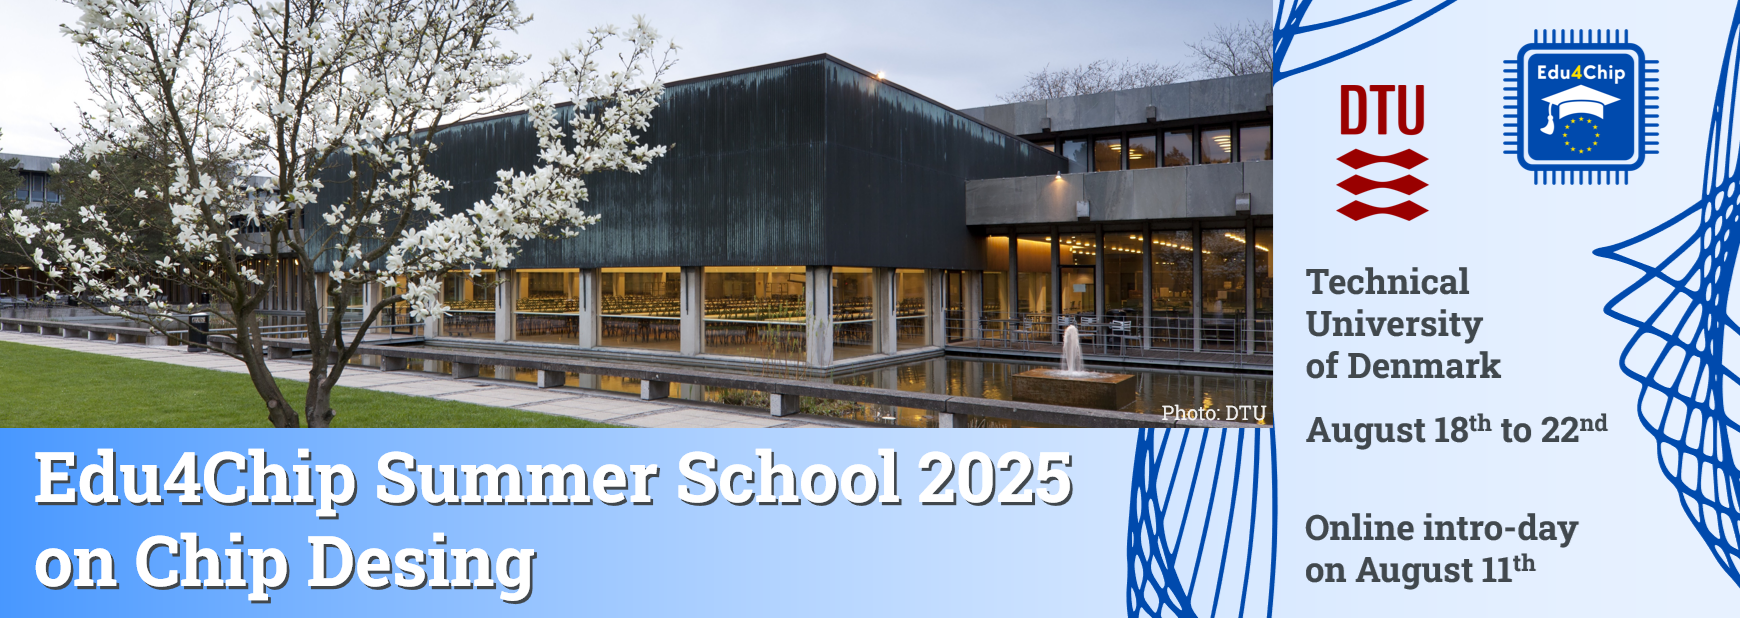
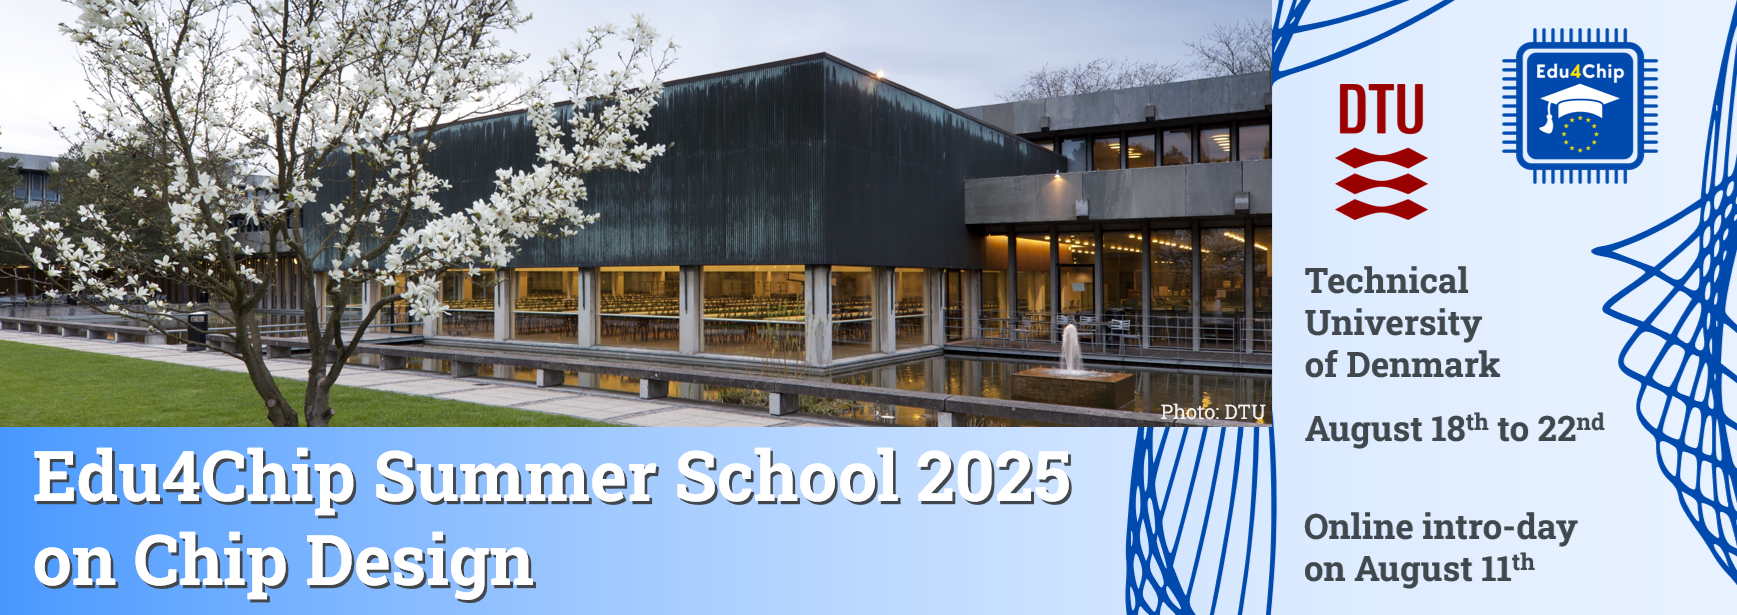
Typo fix.

diff --git a/summer2025.html b/summer2025.html
@@ -54,7 +54,7 @@
 						<!-- Content -->
 						<section>
 							<!--header class="main">
-								<h2>Edu4Chip Summer School 2025 on Chip Desing</h2>
+								<h2>Edu4Chip Summer School 2025 on Chip Design</h2>
 							</header-->
 
 							<!-- Descriptions -->
@@ -62,7 +62,7 @@
 								Summary
 							</h2-->
 							<h2 id="content">
-								Edu4Chip Summer School 2025 on Chip Desing
+								Edu4Chip Summer School 2025 on Chip Design
 							</h2>
 							<p>
 								<figure class="image right">
